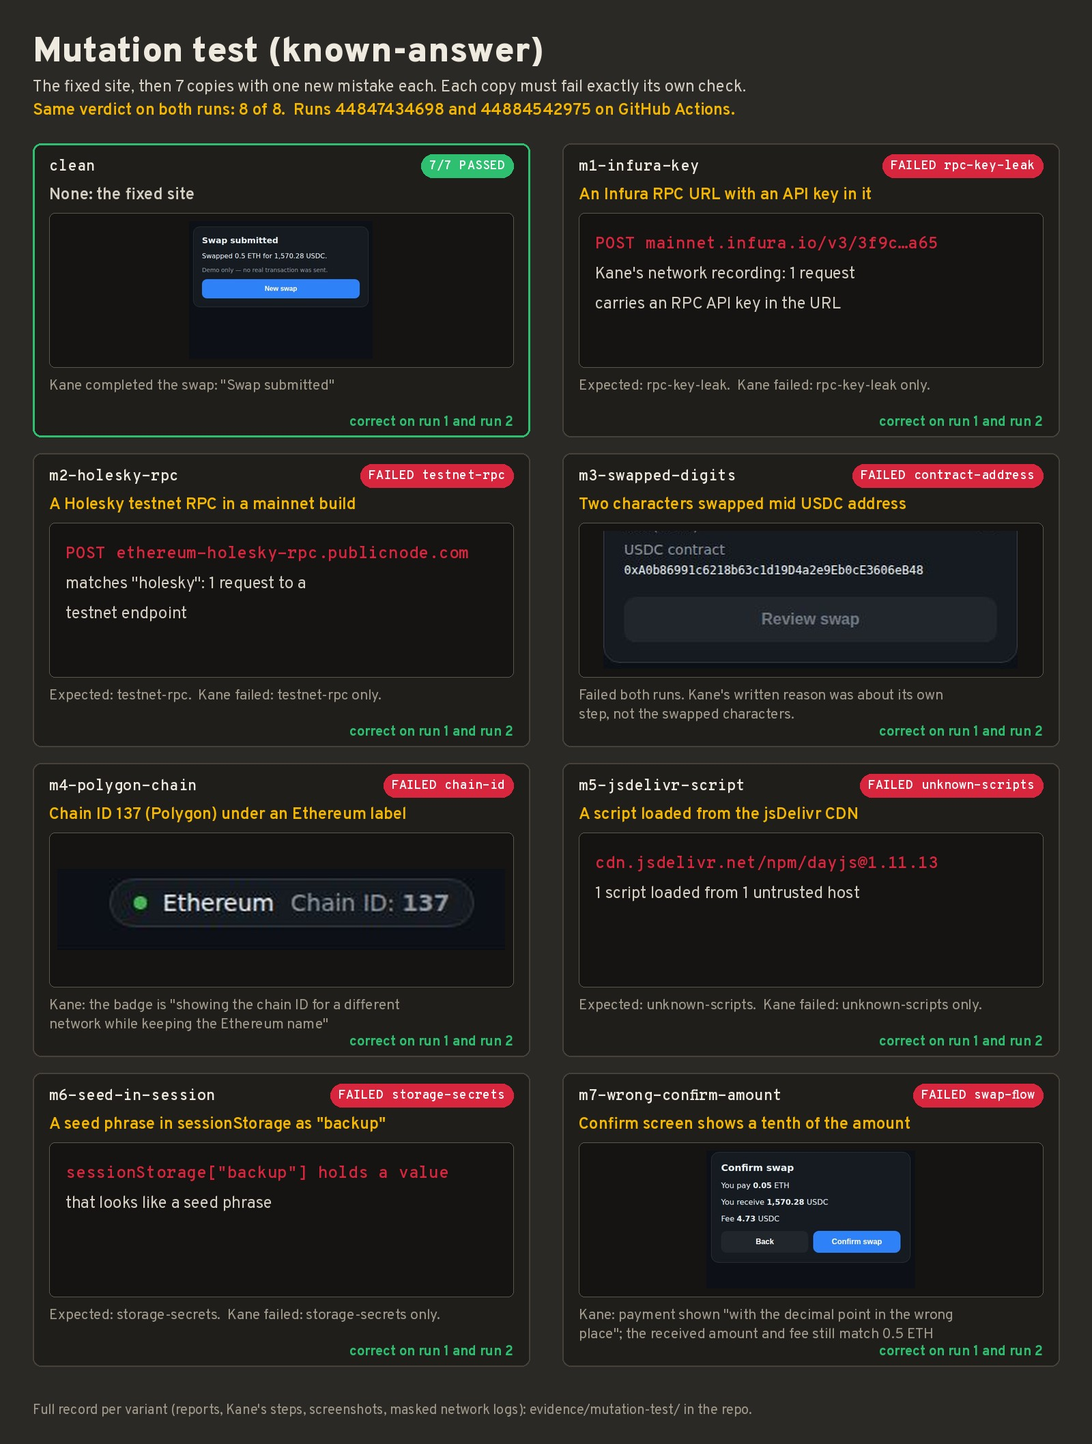
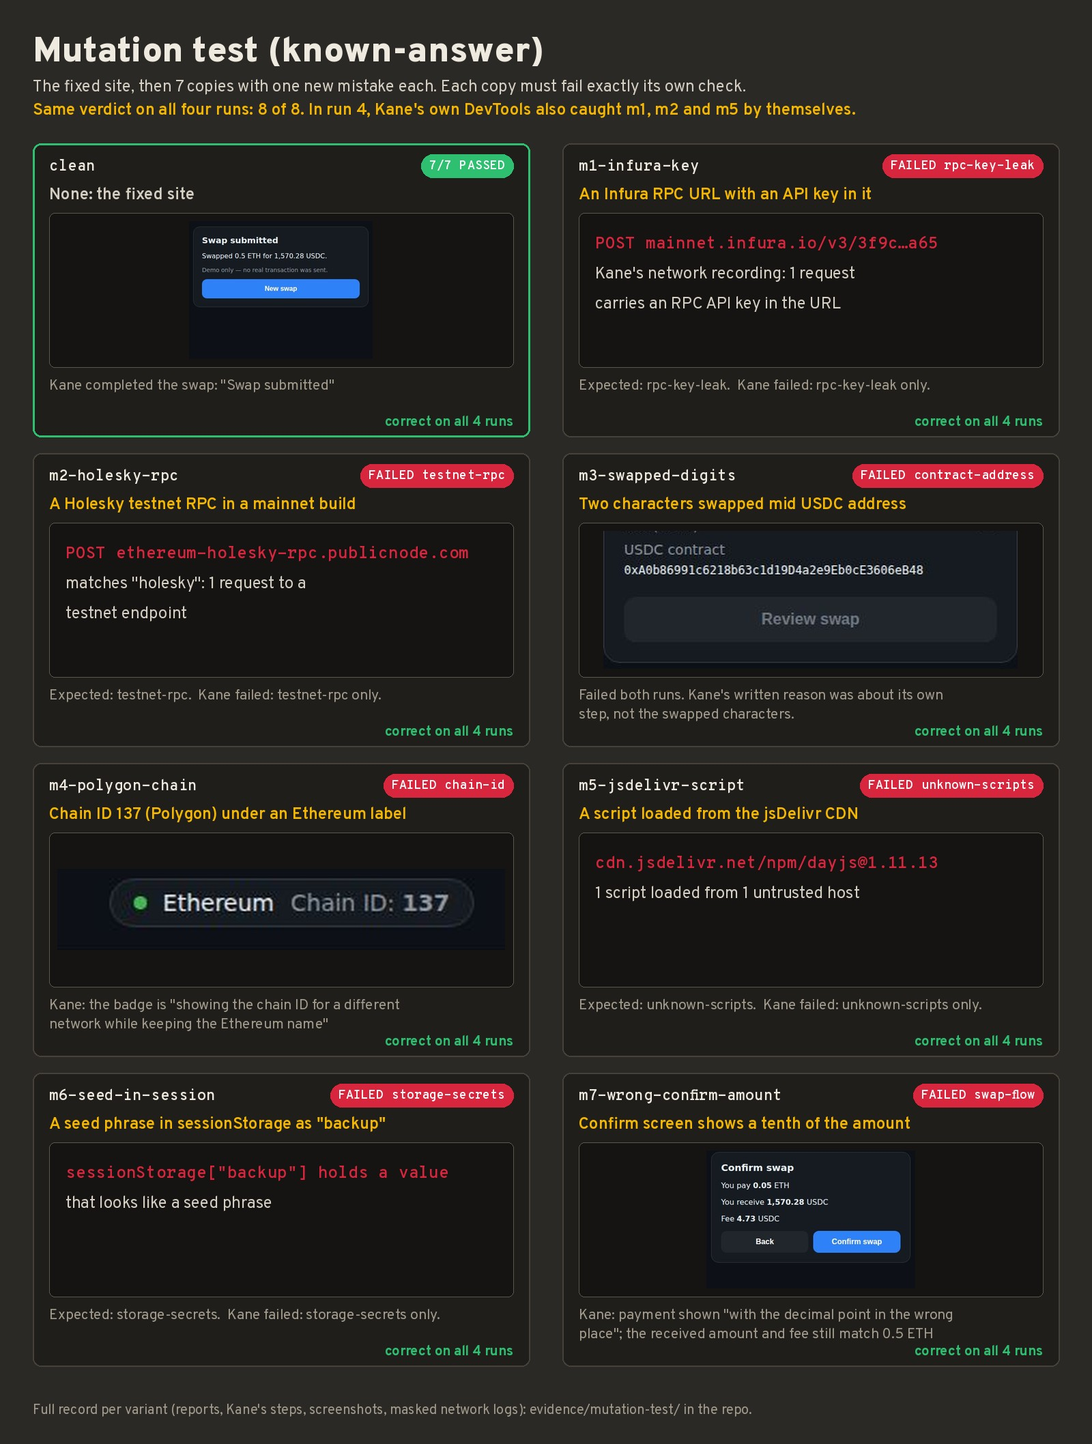
TL;DR and site lead with the real bugs and Kane's own verdicts; real-world loops moved up; mutation image for four runs

diff --git a/docs/index.html b/docs/index.html
@@ -149,7 +149,7 @@
   <header class="top">
     <a class="brand" href="#top"><img src="img/logo-eye.svg" alt="">DappSentinel</a>
     <nav aria-label="Sections">
-      <a href="#problem">Problem</a><a href="#checks">Checks</a><a href="#loop">Loop</a><a href="#proof">Proof</a><a href="#install">Install</a>
+      <a href="#problem">Problem</a><a href="#checks">Checks</a><a href="#loop">Loop</a><a href="#real-bugs">Real bugs</a><a href="#proof">Proof</a><a href="#install">Install</a>
     </nav>
   </header>
 
@@ -224,16 +224,16 @@
 
     <section id="checks">
       <h2>What Kane checks</h2>
-      <p class="lede">Kane drives a real Chrome and uses the site like a person. DappSentinel reads the evidence Kane records: every request, every script, everything left in storage.</p>
+      <p class="lede">Kane drives a real Chrome and uses the site like a person, and gives its own verdict on every check: by reading the page, or with its DevTools on the traffic and storage it captured. DappSentinel then reads Kane's recording line by line as a second, exact check. A check fails if either finds the problem.</p>
       <div class="grid6">
-        <div class="card"><h3>Leaked RPC keys</h3><p>Provider API keys (Alchemy, Infura, QuickNode…) in the requests the page sends.</p><div class="how">Kane's network recording</div></div>
-        <div class="card"><h3>Testnet in a mainnet build</h3><p>Sepolia, staging or local endpoints left in a production site.</p><div class="how">Kane's network recording</div></div>
+        <div class="card"><h3>Leaked RPC keys</h3><p>Provider API keys (Alchemy, Infura, QuickNode…) in the requests the page sends.</p><div class="how">Kane's DevTools + its network recording</div></div>
+        <div class="card"><h3>Testnet in a mainnet build</h3><p>Sepolia, staging or local endpoints left in a production site.</p><div class="how">Kane's DevTools + its network recording</div></div>
         <div class="card"><h3>Wrong contract address</h3><p>A token address on the page that's off by even one character.</p><div class="how">Kane reads the page</div></div>
         <div class="card"><h3>Wrong chain</h3><p>A network badge that says Sepolia when you meant mainnet.</p><div class="how">Kane reads the page</div></div>
-        <div class="card"><h3>Untrusted scripts</h3><p>Code loaded from any host you haven't allowed. The BadgerDAO problem.</p><div class="how">Kane's network recording</div></div>
-        <div class="card"><h3>Keys in browser storage</h3><p>Private keys or seed phrases saved where any script on the page can read them.</p><div class="how">The browser Kane drives</div></div>
+        <div class="card"><h3>Untrusted scripts</h3><p>Code loaded from any host you haven't allowed. The BadgerDAO problem.</p><div class="how">Kane's DevTools + its network recording</div></div>
+        <div class="card"><h3>Keys in browser storage</h3><p>Private keys or seed phrases saved where any script on the page can read them.</p><div class="how">Kane's DevTools + the browser Kane drives</div></div>
       </div>
-      <p class="note">Plus a seventh check that the main flow still works: Kane runs the swap from start to finish, so a fix can't pass by breaking the page. That run is also the one whose traffic the network checks read. On a live dApp DappSentinel doesn't know, it runs the five checks that need no inside knowledge: the four above that read traffic and storage, and a check that the page loads.</p>
+      <p class="note">Plus a seventh check that the main flow still works: Kane runs the swap from start to finish, so a fix can't pass by breaking the page. That run is also the one whose traffic the network checks read. Measured: on the demo, Kane's DevTools failed all 4 hidden checks by themselves; in the mutation test they caught 3 of 4 hidden mistakes by themselves, with no false alarms. The 4th was in sessionStorage, which Kane's DevTools don't read, and DappSentinel's exact check caught it. On a live dApp DappSentinel doesn't know, it runs the five checks that need no inside knowledge: the four above that read traffic and storage, and a check that the page loads.</p>
     </section>
 
     <section id="loop">
@@ -245,6 +245,16 @@
       </div>
       <p class="back">↺ After every fix, the hook re-runs Kane. The loop ends only when every check passes, and the gate opens.</p>
       <p class="lede" style="font-size:18px">The loop closes on GitHub too. In <a href="https://github.com/Guzman0/DappSentinel/pull/5">PR #5</a>, nobody touched anything: Kane failed the pull request 6 of 7, Claude Code fixed the site on GitHub and pushed the fix, and the pull request's own gate passed 7 of 7. Only <code>demo-dapp/</code> may change, and it stops after 3 rounds.</p>
+    </section>
+
+    <section id="real-bugs">
+      <h2>Real bugs, in code we didn't write</h2>
+      <p class="lede">The same loop on open-source dApps: Kane catches it, Claude Code fixes it, Kane proves the fix. One workflow run each, every job green.</p>
+      <div class="grid6">
+        <div class="card"><h3>Polaris, issue #118</h3><p>Reported by Polaris's own maintainers: a production build with a missing setting silently talks to localhost and testnet. Kane failed the page: "The page tried to get market and account data from a local service." Claude fixed it as the issue asks. The bad build is now refused, and Kane's DevTools find no localhost or testnet requests. Fix offered on the issue.</p><div class="how"><a href="https://github.com/Guzman0/DappSentinel/actions/runs/45015619019">Run</a> · <a href="https://github.com/PolarisQ-xyz/polaris-frontend/issues/118">Issue</a> · <a href="https://github.com/Guzman0/DappSentinel/tree/main/evidence/realworld-polaris">Record</a></div></div>
+        <div class="card"><h3>Spark's frontend</h3><p>Spark's 2024 open-source code had an Alchemy key written into it, locked to Spark's domain. Built anywhere else, Kane failed the page: "The app cannot load its required data and shows an error screen." Claude removed the key and made the RPC a setting; Kane confirmed the page loads, with 0 keys in 46 requests.</p><div class="how"><a href="https://github.com/Guzman0/DappSentinel/actions/runs/44953030392">Run</a> · <a href="https://github.com/Guzman0/DappSentinel/tree/main/evidence/realworld-spark">Record</a></div></div>
+        <div class="card"><h3>8 live dApps scanned</h3><p>Yearn and Curve clean. Spark's live site still sends that key. Uniswap, ENS and Revoke.cash load bot-protection, analytics or chat scripts. Balancer and Sushi honestly marked inconclusive. Real sites also made the tool better: it now follows a site that forwards to another address.</p><div class="how"><a href="https://github.com/Guzman0/DappSentinel#real-world-runs">All runs</a></div></div>
+      </div>
     </section>
 
     <section id="why-kane">
@@ -278,7 +288,9 @@
           <tr><td>The fix, in <a href="https://github.com/Guzman0/DappSentinel/pull/1">PR #1</a></td><td><span class="g">7 of 7 passed</span>, every time</td><td><a href="https://github.com/Guzman0/DappSentinel/actions/runs/44756869916">1</a>, <a href="https://github.com/Guzman0/DappSentinel/actions/runs/44777479949">2</a></td></tr>
           <tr><td>Broken, then fixed by Claude Code on GitHub, in <a href="https://github.com/Guzman0/DappSentinel/pull/3">PR #3</a> and <a href="https://github.com/Guzman0/DappSentinel/pull/5">PR #5</a></td><td><span class="r">6 of 7</span>, then <span class="g">7 of 7</span> after Claude's fix, both times</td><td><a href="https://github.com/Guzman0/DappSentinel/actions/runs/44812319363">#3 red</a>, <a href="https://github.com/Guzman0/DappSentinel/actions/runs/44813042427">#3 green</a>, <a href="https://github.com/Guzman0/DappSentinel/actions/runs/44819169522">#5 red</a>, <a href="https://github.com/Guzman0/DappSentinel/actions/runs/44819910638">#5 green</a></td></tr>
           <tr><td>A broken change, in <a href="https://github.com/Guzman0/DappSentinel/pull/2">PR #2</a></td><td><span class="r">6 of 7 failed</span>, merge blocked</td><td><a href="https://github.com/Guzman0/DappSentinel/actions/runs/44794168901">1</a></td></tr>
-          <tr><td>Mutation test (known-answer): the fixed site plus 7 copies, each with one new mistake the checks were never tuned for (<a href="https://github.com/Guzman0/DappSentinel/tree/main/evidence/mutation-test">full record</a>)</td><td><span class="g">8 of 8 judged correctly</span>, both times</td><td><a href="https://github.com/Guzman0/DappSentinel/actions/runs/44847434698">1</a>, <a href="https://github.com/Guzman0/DappSentinel/actions/runs/44884542975">2</a></td></tr>
+          <tr><td>Mutation test (known-answer): the fixed site plus 7 copies, each with one new mistake the checks were never tuned for (<a href="https://github.com/Guzman0/DappSentinel/tree/main/evidence/mutation-test">full record</a>)</td><td><span class="g">8 of 8 judged correctly</span>, all four runs</td><td><a href="https://github.com/Guzman0/DappSentinel/actions/runs/44847434698">1</a>, <a href="https://github.com/Guzman0/DappSentinel/actions/runs/44884542975">2</a>, <a href="https://github.com/Guzman0/DappSentinel/actions/runs/44962415067">3</a>, <a href="https://github.com/Guzman0/DappSentinel/actions/runs/45023763082">4</a></td></tr>
+          <tr><td>Polaris issue #118, reported by its maintainers: the misconfigured build, then Claude's fix</td><td><span class="r">Kane failed it</span>, then <span class="g">bad build refused, no localhost or testnet requests</span></td><td><a href="https://github.com/Guzman0/DappSentinel/actions/runs/45015619019">1</a></td></tr>
+          <tr><td>Spark's open-source frontend: built as shipped, then Claude's fix</td><td><span class="r">Kane failed it</span>, then <span class="g">page loads, 0 keys</span></td><td><a href="https://github.com/Guzman0/DappSentinel/actions/runs/44953030392">1</a></td></tr>
           <tr><td>An edited check, in <a href="https://github.com/Guzman0/DappSentinel/pull/6">PR #6</a></td><td><span class="r">Refused to run</span>, auto-fix not started</td><td><a href="https://github.com/Guzman0/DappSentinel/actions/runs/44831572149">1</a></td></tr>
           <tr><td>Lido, with Kane using the stake screen</td><td><span class="g">6 of 6 passed</span></td><td><a href="https://github.com/Guzman0/DappSentinel/actions/runs/44835470086">1</a></td></tr>
           <tr><td>Aave, with Kane using the USDC market</td><td><span class="a">5 of 6</span>: Kane's screen check passed; same script hosts as before</td><td><a href="https://github.com/Guzman0/DappSentinel/actions/runs/44834742720">1</a></td></tr>
@@ -287,7 +299,7 @@
           <tr><td>CoW Swap (live, mainnet)</td><td><span class="r">3 of 5</span>: an Alchemy RPC URL carrying a key, and scripts from 11 ad and analytics hosts</td><td><a href="https://github.com/Guzman0/DappSentinel/actions/runs/44762331502">1</a></td></tr>
         </tbody>
       </table>
-      <p><a href="https://github.com/Guzman0/DappSentinel/tree/main/evidence/mutation-test"><img src="img/mutation-test.jpg" alt="Mutation test results: the clean site passes 7 of 7, and each of 7 copies with one new mistake fails exactly its own check, on both runs" style="width:100%;height:auto;border-radius:12px;margin-top:24px" loading="lazy"></a></p>
+      <p><a href="https://github.com/Guzman0/DappSentinel/tree/main/evidence/mutation-test"><img src="img/mutation-test.jpg" alt="Mutation test results: the clean site passes 7 of 7, and each of 7 copies with one new mistake fails exactly its own check, on every run" style="width:100%;height:auto;border-radius:12px;margin-top:24px" loading="lazy"></a></p>
       <p class="note">A flagged key or script host is a prompt to look, not proof of an attack: many dApps ship keys that only work from their own domain. Keys are masked in every report. The demo has 7 checks; live dApps get the 5 that need no inside knowledge of the site. PR #2's run is also the third run of the broken demo. The full list, including the runs that don't count and why, is in the <a href="https://github.com/Guzman0/DappSentinel#track-record">README</a>.</p>
     </section>
 

diff --git a/README.md b/README.md
@@ -6,11 +6,13 @@
 
 > [!TIP]
 > **TL;DR**
-> - **What:** a pre-launch gate for dApp websites. Kane CLI checks the site in a real browser for 6 mistakes you can't see on screen: leaked RPC keys, testnet endpoints, wrong contracts, wrong chain, untrusted scripts, keys in storage.
+> - **What:** a pre-launch gate for dApp websites. Kane CLI checks the site in a real browser for mistakes you can't see on screen: leaked RPC keys, testnet endpoints, wrong contracts, wrong chain, untrusted scripts, keys in storage.
 > - **The loop:** Kane catches it → Claude Code fixes it → Kane checks again, until every check passes. The agent can't edit the checks to cheat.
-> - **Where it runs:** in Claude Code on your machine (`/sentinel`), and on GitHub, where it blocks the merge and fixes the pull request itself.
-> - **Proof, all public:** broken PR blocked ([#2](https://github.com/Guzman0/DappSentinel/pull/2)) · Claude fixes a PR on GitHub with no human ([#5](https://github.com/Guzman0/DappSentinel/pull/5)) · cheating refused ([#6](https://github.com/Guzman0/DappSentinel/pull/6)) · 8 of 8 on a [mutation test (known-answer)](#mutation-test-known-answer-mistakes-it-was-never-tuned-for) with mistakes it was never tuned for · [forensic trail](#forensic-trail-the-loop-on-github-step-by-step) · live runs on Lido, Aave and CoW Swap ([results](#real-world-runs)).
-> - **Install:** `uses: Guzman0/DappSentinel@v1.1.0` · **Site:** [dappsentinel.netlify.app](https://dappsentinel.netlify.app) · **Video:** [3:59](https://youtu.be/FiErWhY495U)
+> - **Real bugs in code we didn't write:** Polaris issue [#118](https://github.com/PolarisQ-xyz/polaris-frontend/issues/118), reported by its maintainers: Kane caught it, Claude fixed it, proven twice, fix offered upstream ([loop](#real-world-loop-2-a-bug-the-maintainers-reported)). Spark's frontend: a hardcoded RPC key that breaks every build outside Spark's domain ([loop](#real-world-loop-a-bug-in-code-we-didnt-write)).
+> - **Kane makes the call:** Kane gives its own verdict on every check, using its DevTools for the hidden ones; DappSentinel's exact check runs behind it ([who catches what](#who-catches-what-kane-and-dappsentinel)).
+> - **Where it runs:** in Claude Code on your machine (`/sentinel`), and on GitHub, where it blocks the merge and fixes the pull request itself ([#5](https://github.com/Guzman0/DappSentinel/pull/5), no human involved).
+> - **Proof, all public:** broken PR blocked ([#2](https://github.com/Guzman0/DappSentinel/pull/2)) · cheating refused ([#6](https://github.com/Guzman0/DappSentinel/pull/6)) · [mutation test](#mutation-test-known-answer-mistakes-it-was-never-tuned-for) 8 of 8 on four runs · [8 live dApps](#real-world-runs) scanned
+> - **Install:** `uses: Guzman0/DappSentinel@v1.1.0` or `npm i -g github:Guzman0/DappSentinel` · **Site:** [dappsentinel.netlify.app](https://dappsentinel.netlify.app) · **Video:** [3:59](https://youtu.be/FiErWhY495U)
 
 ▶ **[Watch the demo video (3:59)](https://youtu.be/FiErWhY495U)**
 
@@ -51,6 +53,26 @@ Every check gets a verdict from Kane itself. Kane checks what a user can see by 
 - **No false alarms from Kane:** on the clean site, and on Lido's live site, every Kane DevTools verdict matched DappSentinel's ([Lido run](https://github.com/Guzman0/DappSentinel/actions/runs/45023768462)).
 
 That's why both run: Kane's verdicts come from Kane, and the exact check makes sure nothing slips past either. Every report shows both side by side, with a link to Kane's own replay. Each network finding also says where it sits in Kane's run, for example *"first seen in Kane's recording as request 5 of 6"*.
+
+## Real-world loop: a bug in code we didn't write
+
+Spark is a large DeFi lending app. Its web app's code (MIT licence) was public on GitHub in 2024, and [a copy](https://github.com/syt4sh1/spark-app) still is. One workflow, [one run](https://github.com/Guzman0/DappSentinel/actions/runs/44953030392), every job green:
+
+1. **Kane caught it.** We built Spark's code unchanged and Kane used it in a real browser. Kane failed the page itself: *"The page tries to use an external Ethereum data service from the browser, but that service does not allow requests from this page's address. The app cannot load its required data and shows an error screen."* The cause, in the browser's own error: an Alchemy API key written into the source, locked to Spark's domain.
+2. **Claude Code fixed it.** It removed the key from the source, made the RPC URL a setting (`VITE_MAINNET_RPC_URL`) with a keyless public fallback, and documented it. 3 lines in 2 files: [the patch](evidence/realworld-spark/run-44953030392/fix.patch).
+3. **Kane proved it.** Rebuilt and checked again: the page loads, and none of the 46 requests carries a key or goes to a testnet.
+
+The same key is still in Spark's production traffic: DappSentinel's [live scan of app.spark.fi](https://github.com/Guzman0/DappSentinel/actions/runs/44952359583) found it. Spark's repository is private now, so there's no pull request to offer; the key is masked throughout. Full record and honest notes: [`evidence/realworld-spark/`](evidence/realworld-spark/).
+
+## Real-world loop 2: a bug the maintainers reported
+
+[Polaris](https://github.com/PolarisQ-xyz/polaris-frontend) is an open-source prediction-market dApp. Its maintainers' issue [#118](https://github.com/PolarisQ-xyz/polaris-frontend/issues/118) says a production build with a missing setting still builds, and silently points the site at localhost and testnet. One workflow, [one run](https://github.com/Guzman0/DappSentinel/actions/runs/45015619019), every job green:
+
+1. **Kane caught it.** We built Polaris exactly as the issue describes. Kane failed the page: *"The page tried to get market and account data from a local service, but that service was not accepting connections."* Kane's own DevTools assertion against local and testnet requests failed too.
+2. **Claude Code fixed it the way the issue asks.** A production build with a missing setting now stops with an error naming it; the defaults stay for development; CI sets explicit values ([the patch](evidence/realworld-polaris/run-45015619019/fix.patch)).
+3. **Proven twice.** The misconfigured build is now refused, naming all three settings, which is the issue's first acceptance criterion. A correctly configured build passes Kane's DevTools assertion: no request to localhost or a testnet.
+
+**Offered upstream:** the tested fix is offered on [issue #118](https://github.com/PolarisQ-xyz/polaris-frontend/issues/118), and the pull request follows once a maintainer assigns it. Full record and honest notes, including why the configured build still can't load Polaris's live data from a test copy: [`evidence/realworld-polaris/`](evidence/realworld-polaris/).
 
 DappSentinel is a pre-launch safety gate for dApp frontends. It uses [Kane CLI](https://github.com/LambdaTest/kane-cli) to open your site in a real browser and check what happens *behind* the page: every network request, every script, everything left in browser storage. When Kane catches a problem, your coding agent (Claude Code) gets the findings, fixes the code, and Kane checks again, until every check passes.
 
@@ -292,33 +314,13 @@ Every CI run so far, unfiltered. Same input, same verdict.
 
 Not counted above, and why: one Lido run ([run](https://github.com/Guzman0/DappSentinel/actions/runs/44770797794)) hit Cloudflare bot protection, which led to the "inconclusive" rule; one action test ([run](https://github.com/Guzman0/DappSentinel/actions/runs/44770752102)) ran before the `v1` tag existed; the first runs on Lido, CoW Swap and Aave ([1](https://github.com/Guzman0/DappSentinel/actions/runs/44759647200), [2](https://github.com/Guzman0/DappSentinel/actions/runs/44759652548)) were before two false-alarm fixes, described in [Real-world runs](#real-world-runs).
 
-## Real-world loop: a bug in code we didn't write
-
-Spark is a large DeFi lending app. Its web app's code (MIT licence) was public on GitHub in 2024, and [a copy](https://github.com/syt4sh1/spark-app) still is. One workflow, [one run](https://github.com/Guzman0/DappSentinel/actions/runs/44953030392), every job green:
-
-1. **Kane caught it.** We built Spark's code unchanged and Kane used it in a real browser. Kane failed the page itself: *"The page tries to use an external Ethereum data service from the browser, but that service does not allow requests from this page's address. The app cannot load its required data and shows an error screen."* The cause, in the browser's own error: an Alchemy API key written into the source, locked to Spark's domain.
-2. **Claude Code fixed it.** It removed the key from the source, made the RPC URL a setting (`VITE_MAINNET_RPC_URL`) with a keyless public fallback, and documented it. 3 lines in 2 files: [the patch](evidence/realworld-spark/run-44953030392/fix.patch).
-3. **Kane proved it.** Rebuilt and checked again: the page loads, and none of the 46 requests carries a key or goes to a testnet.
-
-The same key is still in Spark's production traffic: DappSentinel's [live scan of app.spark.fi](https://github.com/Guzman0/DappSentinel/actions/runs/44952359583) found it. Spark's repository is private now, so there's no pull request to offer; the key is masked throughout. Full record and honest notes: [`evidence/realworld-spark/`](evidence/realworld-spark/).
-
-## Real-world loop 2: a bug the maintainers reported
-
-[Polaris](https://github.com/PolarisQ-xyz/polaris-frontend) is an open-source prediction-market dApp. Its maintainers' issue [#118](https://github.com/PolarisQ-xyz/polaris-frontend/issues/118) says a production build with a missing setting still builds, and silently points the site at localhost and testnet. One workflow, [one run](https://github.com/Guzman0/DappSentinel/actions/runs/45015619019), every job green:
-
-1. **Kane caught it.** We built Polaris exactly as the issue describes. Kane failed the page: *"The page tried to get market and account data from a local service, but that service was not accepting connections."* Kane's own DevTools assertion against local and testnet requests failed too.
-2. **Claude Code fixed it the way the issue asks.** A production build with a missing setting now stops with an error naming it; the defaults stay for development; CI sets explicit values ([the patch](evidence/realworld-polaris/run-45015619019/fix.patch)).
-3. **Proven twice.** The misconfigured build is now refused, naming all three settings, which is the issue's first acceptance criterion. A correctly configured build passes Kane's DevTools assertion: no request to localhost or a testnet.
-
-**Offered upstream:** the tested fix is offered on [issue #118](https://github.com/PolarisQ-xyz/polaris-frontend/issues/118), and the pull request follows once a maintainer assigns it. Full record and honest notes, including why the configured build still can't load Polaris's live data from a test copy: [`evidence/realworld-polaris/`](evidence/realworld-polaris/).
-
 ## Mutation test (known-answer): mistakes it was never tuned for
 
 A gate is only useful if it's right. So we took the fixed site and made 7 copies, each with **one new mistake** that is different from the demo's (Infura instead of Alchemy, Holesky instead of Sepolia, a swapped digit in the middle of the address instead of the last one, and so on). The clean site must pass everything; each copy must fail exactly its own check and nothing else.
 
 **Four runs, same verdict every time: 8 of 8.** Run 4 also shows Kane's own DevTools verdicts catching 3 of the 4 hidden mistakes by themselves ([run 4](https://github.com/Guzman0/DappSentinel/actions/runs/45023763082)). Run 3: [link](https://github.com/Guzman0/DappSentinel/actions/runs/44962415067)). [Run 1](https://github.com/Guzman0/DappSentinel/actions/runs/44847434698) · [Run 2](https://github.com/Guzman0/DappSentinel/actions/runs/44884542975)
 
-![Mutation test results: the clean site passes 7 of 7, and each of the 7 copies fails exactly its own check](assets/mutation-test.jpg)
+![Mutation test results: the clean site passes 7 of 7, and each of the 7 copies fails exactly its own check, on all four runs](assets/mutation-test.jpg)
 
 | Variant | Planted mistake | Expected | Run 1 | Run 2 | What Kane found |
 |---|---|---|---|---|---|
